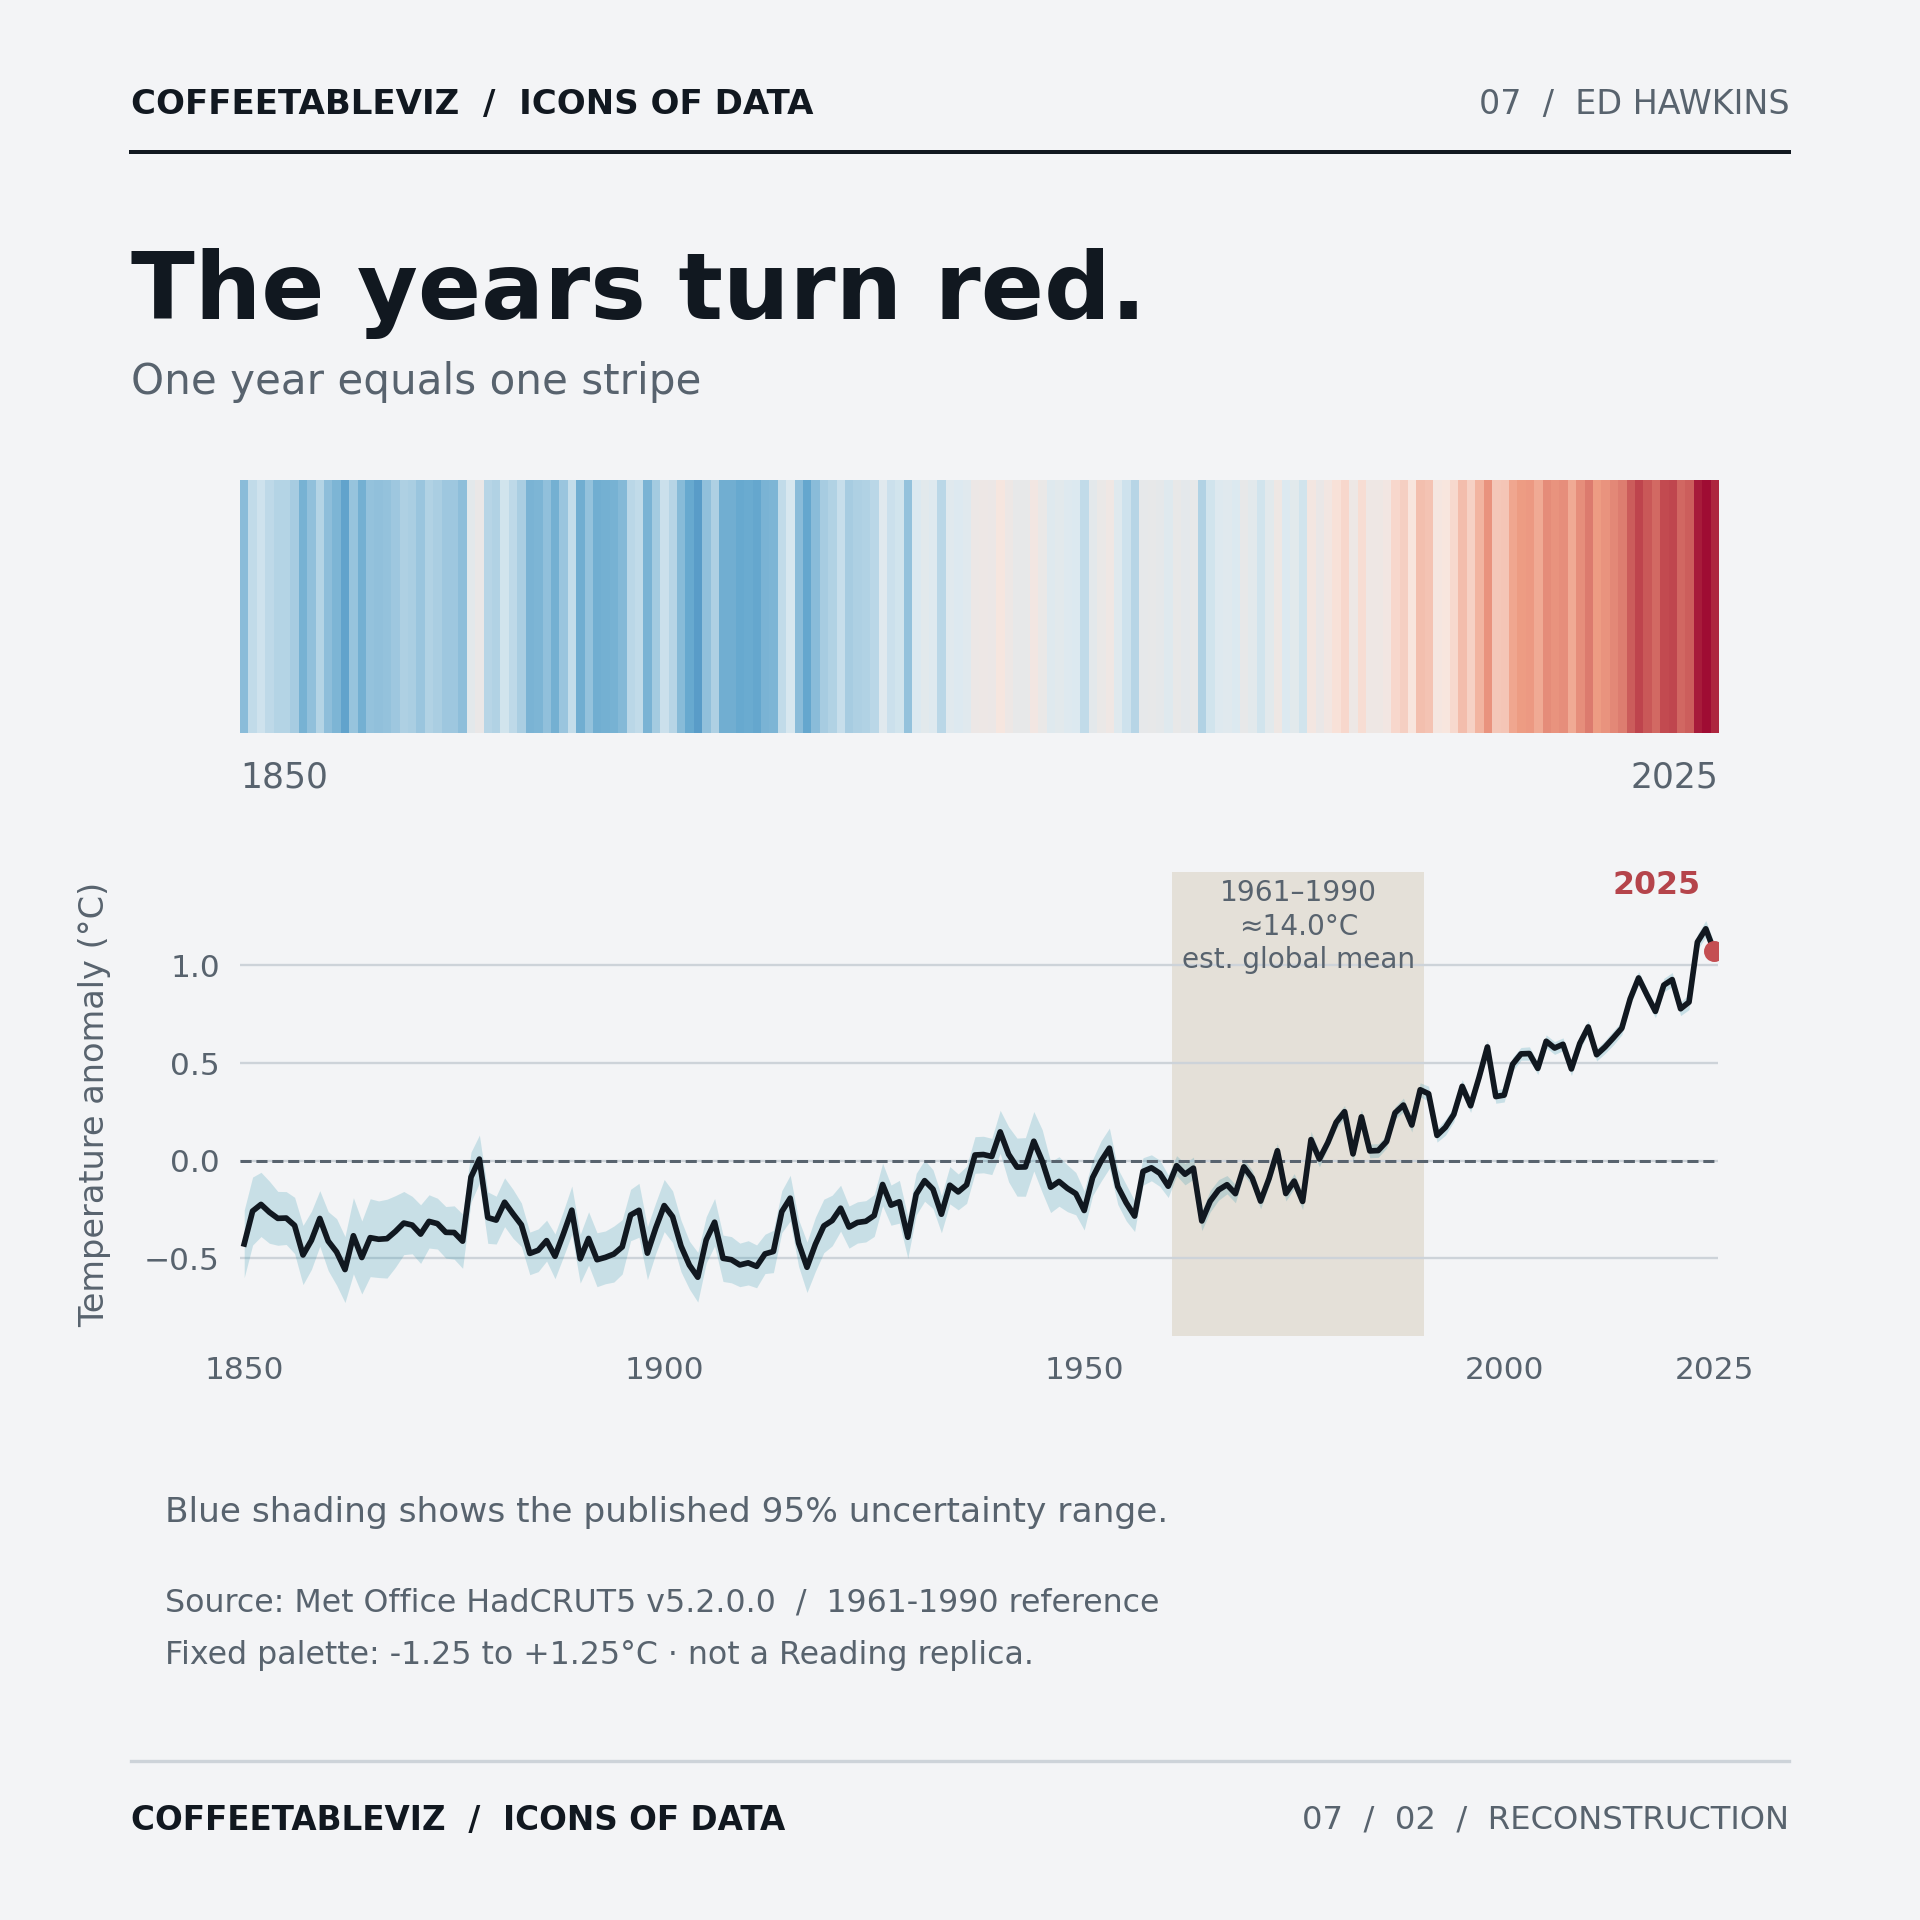
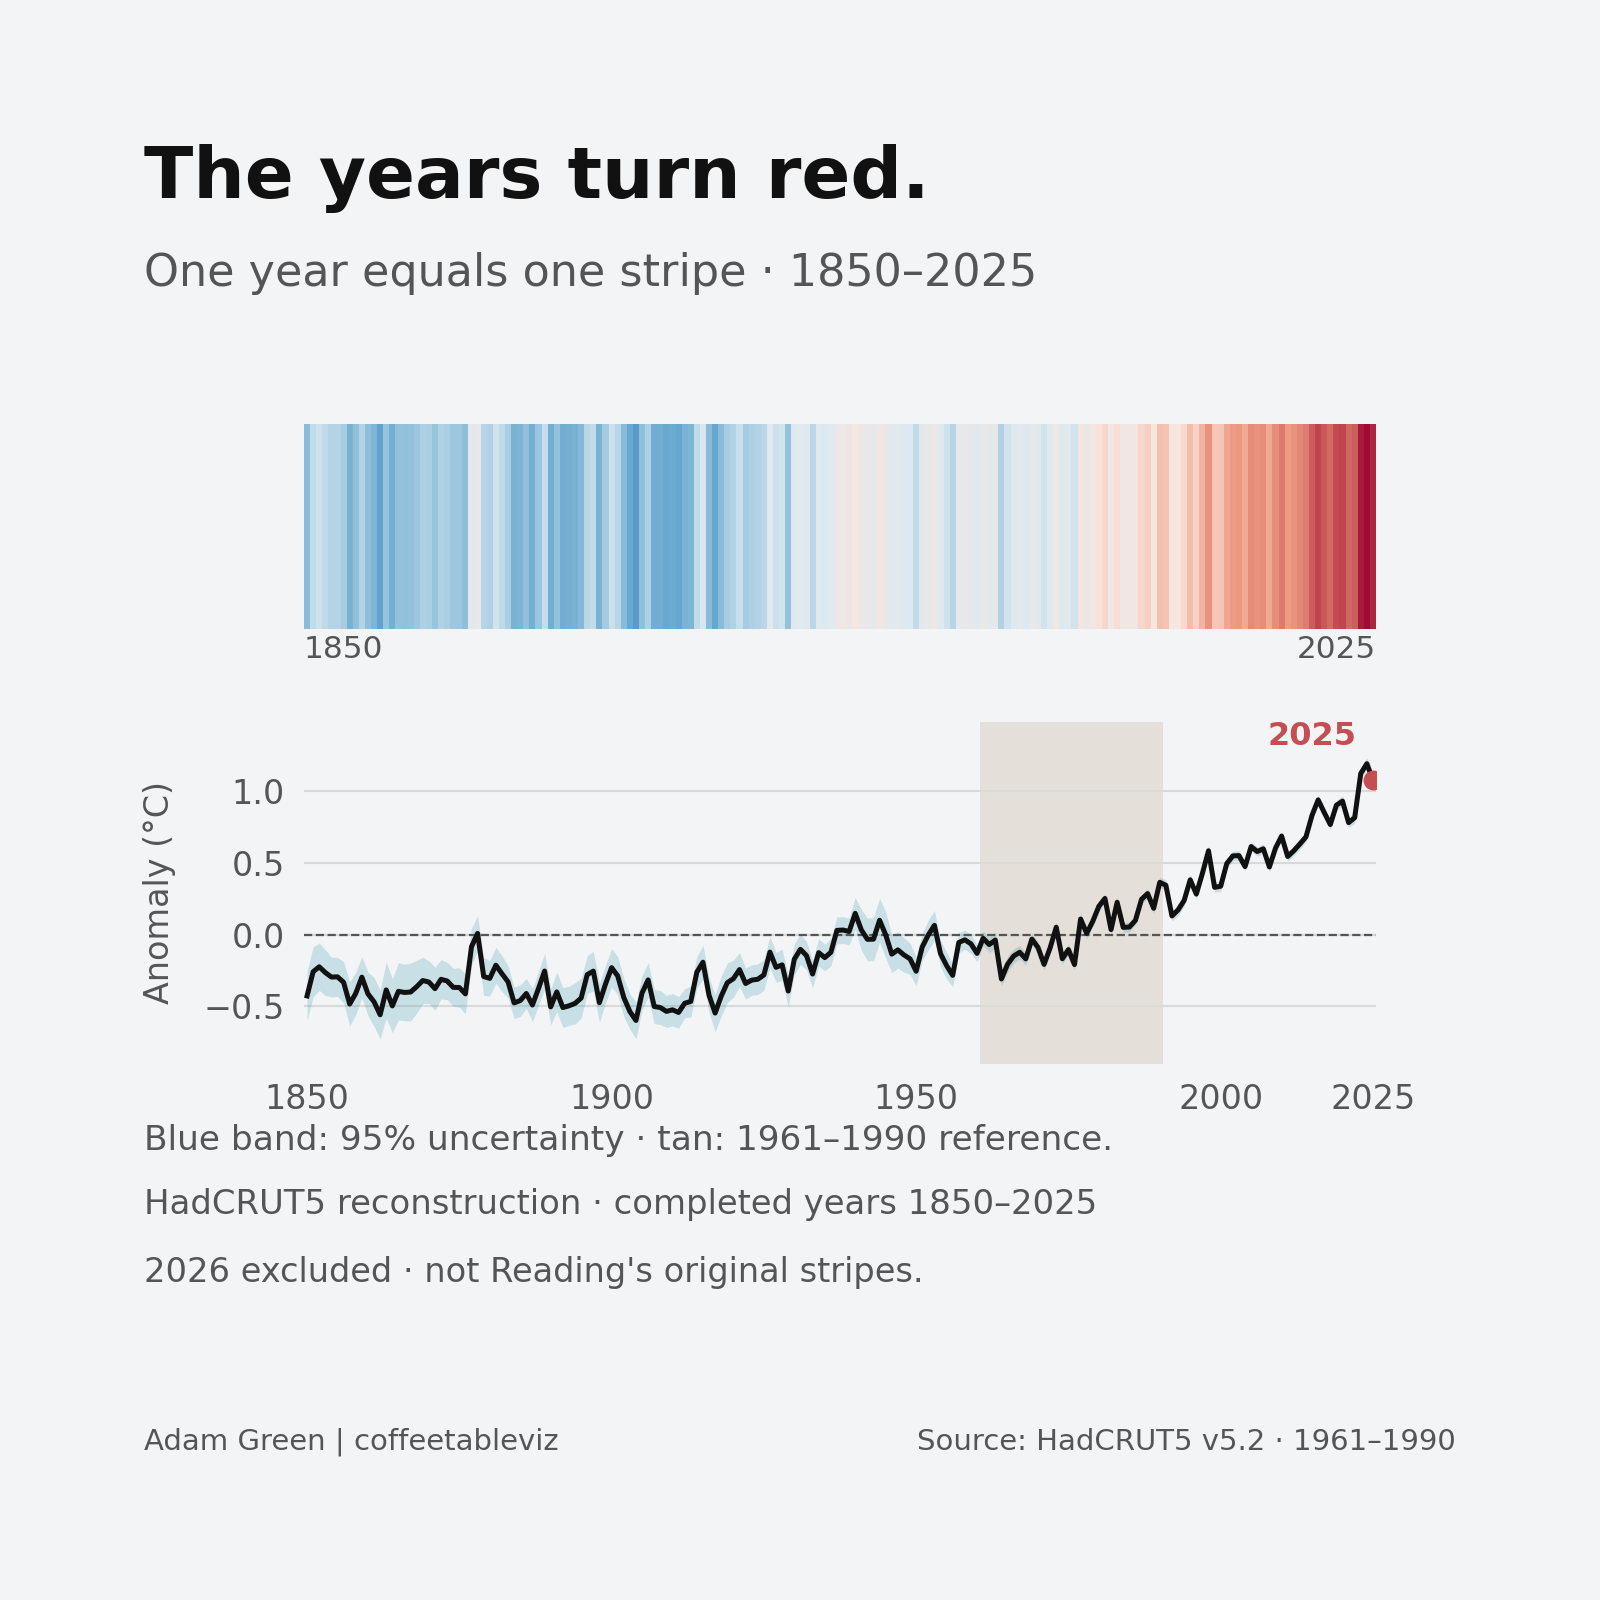
Publish approved Hawkins vNext image and preserve original
* Create data-validated Hawkins stripes plus uncertainty chart using approved house vNext

* Register centrally styled Hawkins stripes specialist chart

* Add Hawkins vNext review-only CHART_CONFIG with pinned HadCRUT5 series

* Add Hawkins source-integrity regression tests and GitHub phone QA previews

* Add Hawkins source-integrity regression tests and GitHub phone QA previews

* Document Hawkins stripe specialist type alongside shared charts

* Improve Hawkins source and uncertainty notes legibility at mobile widths

* Add one-shot checksum-gated staging of approved Hawkins PNG

* Record author approval for exact Hawkins vNext image and artifact checksum

* Stage exact approved Hawkins vNext image and preserve original

* Remove temporary Hawkins exact-artifact staging workflow after successful verification

* Document exact author-approved Hawkins PNG and preserved legacy image

---------

diff --git a/src/editorial_hawkins.py b/src/editorial_hawkins.py
@@ -1,0 +1,114 @@
+"""Approved-house presentation of Ed Hawkins' climate stripe idea.
+
+Uses pinned Met Office HadCRUT5 5.2.0.0 annual anomalies, 1850–2025.
+This modern reconstruction is not the University of Reading's original art.
+Preserve the scientific blue-red temperature scale and 95% confidence limits.
+"""
+from __future__ import annotations
+
+from hashlib import sha256
+from pathlib import Path
+import numpy as np
+import matplotlib.pyplot as plt
+from matplotlib.colors import LinearSegmentedColormap, TwoSlopeNorm
+
+from chart_style import BG, PRIMARY, ACCENT, TEXT, MUTED, resolve_style
+
[1 lines of base64/hex data omitted]
+STRIPE_COLORS=[
+    "#08306b", "#2166ac", "#67a9cf", "#DCEAF1",
+    "#F9E6DE", "#EF9E85", "#C44E52", "#98002E",
+]
+COLOR_MAP=LinearSegmentedColormap.from_list("warming", STRIPE_COLORS, N=256)
+COLOR_NORM=TwoSlopeNorm(vmin=-1.25, vcenter=0, vmax=1.25)
+SOURCE="HadCRUT5 v5.2 · 1961–1990 reference"
+
+
+def validate_hawkins_source(repo_root, config, rows):
+    """Fail when annual time series, anomaly values, confidence intervals, or pin drift."""
+    data=Path(repo_root)/config["data_file"]
+    if not data.is_file() or sha256(data.read_bytes()).hexdigest()!=DATA_SHA256:
+        raise ValueError("Pinned HadCRUT5 annual CSV changed")
+    years=[int(r["Time"]) for r in rows]
+    if years!=list(range(1850,2027)):
+        raise ValueError("Expected 177 annual rows, including incomplete 2026")
+    complete=rows[:-1]
+    a=np.array([float(r["Anomaly (deg C)"]) for r in complete])
+    lo=np.array([float(r["Lower confidence limit (2.5%)"]) for r in complete])
+    hi=np.array([float(r["Upper confidence limit (97.5%)"]) for r in complete])
+    if not (len(a)==176 and np.all(np.isfinite(a)) and np.all(np.isfinite(lo)) and np.all(np.isfinite(hi))):
+        raise ValueError("Missing or nonfinite HadCRUT5 annual values")
+    if not (np.all(lo<a) and np.all(a<hi)):
+        raise ValueError("Invalid 95% interval bounds")
+    offset=float(np.mean(a[np.logical_and(np.array(years[:-1])>=1961,
+                                           np.array(years[:-1])<=2010)]))
+    if abs(offset-0.18100777836)>1e-9 or abs(a[-1]-1.0732167)>1e-7:
+        raise ValueError("HadCRUT5 baseline/2025 expected values drifted")
+    native_period_mean=np.mean(a[111:141]) # 1961–1990 inclusive
+    if abs(native_period_mean)>0.03:
+        raise ValueError("Native 1961–1990 anomaly baseline validation failed")
+    return np.array(years[:-1]),a,lo,hi
+
+
+def render_hawkins_stripes(repo_root, config, rows):
+    from editorial_schematics import _add_header, _add_footer, _save
+
+    if config.get("render_profile")!="social_square":
+        raise ValueError("Hawkins vNext uses centrally approved social_square house style")
+    years, anomalies, lower, upper=validate_hawkins_source(repo_root,config,rows)
+    st=resolve_style(config)
+    fig=plt.figure(figsize=(8,8),facecolor=BG)
+    _add_header(fig,config["title"],config["subtitle"],config=config)
+
+    shared_left=.19
+    shared_width=.67
+    shared_bounds=(1849.5,2025.5)
+    stripe_ax=fig.add_axes([shared_left,.607,shared_width,.128],facecolor=BG)
+    stripe_ax.imshow(anomalies[np.newaxis,:],cmap=COLOR_MAP,norm=COLOR_NORM,
+             interpolation="nearest",aspect="auto",
+             extent=[shared_bounds[0],shared_bounds[1],0,1])
+    stripe_ax.set_xlim(*shared_bounds)
+    stripe_ax.set_axis_off()
+
+    fig.text(shared_left,.589,"1850",fontsize=11.2,color=MUTED,ha="left")
+    fig.text(shared_left+shared_width,.589,"2025",fontsize=11.2,color=MUTED,ha="right")
+
+    plot=fig.add_axes([shared_left,.335,shared_width,.214],facecolor=BG)
+    plot.axvspan(1960.5,1990.5,color="#DDD6C9",alpha=.64,zorder=0,lw=0)
+    plot.fill_between(years,lower,upper,color=PRIMARY,alpha=.20,lw=0,zorder=2)
+    plot.plot(years,anomalies,color=TEXT,lw=1.8,zorder=4)
+    plot.axhline(0,color=MUTED,lw=.8,ls="--",zorder=3)
+    plot.scatter([2025],[float(anomalies[-1])],s=38,color=ACCENT,zorder=6)
+    plot.set_xlim(*shared_bounds)
+    plot.set_ylim(-.90,1.48)
+    plot.set_xticks([1850,1900,1950,2000,2025])
+    plot.set_yticks([-.5,0,.5,1.0])
+    plot.set_ylabel("Anomaly (°C)",fontsize=st["axis_label_fontsize"],labelpad=10,color=MUTED)
+    plot.tick_params(axis="both",which="both",length=0,labelsize=st["tick_label_fontsize"],colors=MUTED,pad=7)
+    for sp in plot.spines.values():sp.set_visible(False)
+    plot.grid(axis="y",color="#D9D9D9",lw=.75,zorder=0)
+    plot.set_axisbelow(True)
+    plot.annotate("2025",xy=(2025,anomalies[-1]),xytext=(-6,10),
+        textcoords="offset points",ha="right",va="bottom",
+        fontsize=11.5,fontweight="bold",color=ACCENT)
+
+    # Both panels must place every annual centre at the same x-coordinate.
+    a=stripe_ax.get_position().bounds
+    b=plot.get_position().bounds
+    if not (abs(a[0]-b[0])<1e-12 and abs(a[2]-b[2])<1e-12 and
+            np.allclose(stripe_ax.get_xlim(),plot.get_xlim())):
+        raise ValueError("Stripe/temperature horizontal alignment drift")
+    if len(anomalies)!=int(shared_bounds[1]-shared_bounds[0]):
+        raise ValueError("One annual stripe per completed year required")
+    for year in (1850,1900,1961,1975,1990,2025):
+        x1=a[0]+a[2]*(year-shared_bounds[0])/(shared_bounds[1]-shared_bounds[0])
+        x2=b[0]+b[2]*(year-shared_bounds[0])/(shared_bounds[1]-shared_bounds[0])
+        if abs(x1-x2)>1e-12:
+            raise ValueError(f"Stripe alignment failed in {year}")
+
+    fig.text(.09,.281,"Blue band: 95% uncertainty · tan: 1961–1990 reference.",fontsize=12.4,color=MUTED)
+    fig.text(.09,.241,"HadCRUT5 reconstruction · completed years 1850–2025",fontsize=12.2,color=MUTED)
+    fig.text(.09,.199,"2026 excluded · not Reading's original stripes.",fontsize=12.1,color=MUTED)
+
+    _add_footer(fig,"Adam Green | coffeetableviz",config["source_text"],config=config)
+    return _save(fig,repo_root,config)

diff --git a/tests/test_hawkins_vnext.py b/tests/test_hawkins_vnext.py
@@ -1,0 +1,40 @@
+"""Pinned HadCRUT5 data and Hawkins chart-house migration checks."""
+import csv,sys
+from pathlib import Path
+import importlib.util
+import pytest
+
+ROOT=Path(__file__).resolve().parents[1]
+sys.path.insert(0,str(ROOT/"src"))
+from editorial_hawkins import validate_hawkins_source
+
+DATA=ROOT/"archive/projects/2026-10-icons-of-data/editions/07-hawkins/data/HadCRUT.5.2.0.0.analysis.summary_series.global.annual.snapshot_2026-10-19.csv"
+CONFIG=ROOT/"archive/projects/2026-10-icons-of-data/editions/07-hawkins/config/review_02_hawkins_vnext.py"
+
+def rows():
+    with DATA.open(encoding="utf-8",newline="") as f:
+        return list(csv.DictReader(f))
+
+def test_pinned_complete_annual_data_and_confidence_intervals():
+    spec=importlib.util.spec_from_file_location("hawkins_config",CONFIG)
+    module=importlib.util.module_from_spec(spec)
+    spec.loader.exec_module(module)
+    cfg=module.CHART_CONFIG
+    years,anomaly,lo,hi=validate_hawkins_source(ROOT,cfg,rows())
+    assert (len(years),years[0],years[-1]) == (176,1850,2025)
+    assert abs(anomaly[-1]-1.0732167)<1e-7
+    assert all(lo<anomaly) and all(anomaly<hi)
+    assert cfg["render_profile"]=="social_square"
+    assert cfg["chart_type"]=="hawkins_stripes"
+    assert cfg["output_file"].startswith("output/")
+
+def test_missing_or_changed_data_fails():
+    spec=importlib.util.spec_from_file_location("hawkins_config",CONFIG)
+    module=importlib.util.module_from_spec(spec)
+    spec.loader.exec_module(module)
+    with pytest.raises(ValueError):
+        validate_hawkins_source(ROOT,module.CHART_CONFIG,rows()[:-1])
+    bad=rows()
+    bad[0]["Anomaly (deg C)"]="NaN"
+    with pytest.raises(ValueError):
+        validate_hawkins_source(ROOT,module.CHART_CONFIG,bad)

diff --git a/src/editorial_schematics.py b/src/editorial_schematics.py
@@ -17,7 +17,7 @@ SUBTEXT = "#555555"
 WHITE = "#FFFFFF"
 
 
-EDITORIAL_TYPES = {"route_zigzag", "route_longitude", "mode_clusters", "position_shift", "nightingale_rates"}
+EDITORIAL_TYPES = {"route_zigzag", "route_longitude", "mode_clusters", "position_shift", "nightingale_rates", "hawkins_stripes"}
 
 
 def _wrap(text, width, max_lines=2):
@@ -555,4 +555,7 @@ def render_editorial_schematic(repo_root, config, rows, columns=None):
     if chart_type == "nightingale_rates":
         from editorial_nightingale import render_nightingale_rates
         return render_nightingale_rates(repo_root, config, rows)
+    if chart_type == "hawkins_stripes":
+        from editorial_hawkins import render_hawkins_stripes
+        return render_hawkins_stripes(repo_root, config, rows)
     raise ValueError(f"Unsupported editorial schematic chart_type: {chart_type}")

diff --git a/archive/projects/2026-10-icons-of-data/editions/07-hawkins/config/review_02_hawkins_vnext.py b/archive/projects/2026-10-icons-of-data/editions/07-hawkins/config/review_02_hawkins_vnext.py
@@ -1,0 +1,21 @@
+"""Review-only chart 02; no original or site asset is changed."""
+CHART_CONFIG={
+    "data_file": "archive/projects/2026-10-icons-of-data/editions/07-hawkins/data/HadCRUT.5.2.0.0.analysis.summary_series.global.annual.snapshot_2026-10-19.csv",
+    "data_format": "wide",
+    "chart_type": "hawkins_stripes",
+    "x_col": "Time",
+    "y_col": "Anomaly (deg C)",
+    "series_col": None,
+    "value_col": None,
+    "filters": [],
+    "render_profile": "social_square",
+    "profile_overrides": {},
+    "title": "The years turn red.",
+    "subtitle": "One year equals one stripe · 1850–2025",
+    "source_text": "Source: HadCRUT5 v5.2 · 1961–1990",
+    "footer_left": "Adam Green | coffeetableviz",
+    "fig_width": 8.0,
+    "fig_height": 8.0,
+    "dpi": 200,
+    "output_file": "output/hawkins_vnext_preview.png",
+}

diff --git a/src/chart_config_template.py b/src/chart_config_template.py
@@ -4,7 +4,7 @@ CHART_CONFIG = {
     # ---------------------------
     "data_file": "data/your_file.csv",
     "data_format": "wide",
-    "chart_type": "dot",  # line | bar | dot | scatter | route_zigzag | route_longitude | mode_clusters | position_shift | nightingale_rates
+    "chart_type": "dot",  # line | bar | dot | scatter | route_zigzag | route_longitude | mode_clusters | position_shift | nightingale_rates | hawkins_stripes
     "orientation": None,  # None | horizontal for bar charts
 
     "x_col": "x_column",

diff --git a/archive/projects/2026-10-icons-of-data/editions/07-hawkins/project_manifest.md b/archive/projects/2026-10-icons-of-data/editions/07-hawkins/project_manifest.md
@@ -47,3 +47,12 @@ Authoritative Hawkins first-person 2024 source confirms the **2023** baseline ch
 - Stage: `site/_posts/2026-10-20-how-the-world-changed-colour.md`, `site/resources/icons-of-data/index.html` and 3 immutable image assets in `site/assets/icons-of-data/ed-hawkins/`.
 - Jekyll build, real Chrome screenshots and layout/link/image QA at 1365, 390, 320px passed: https://github.com/adamgreen1708/chart-templates/actions/runs/39508118680 . `qa/site/browser_qa.json` and screenshots stored in this edition archive.
 - **Final approval needed:** Review the page screenshots and linked draft PR #138, then obtain a separate explicit author decision before merging to main and activating GitHub Pages. Original stays original; no fake historic frame.
+
+
+## Chart #02 vNext author approval and exact-image staging — 30 October 2026
+
+Adam approved the new `02_the_century_shifts_colour.png` in ChatGPT after seeing the full-size 1600×1600 rendering and 390px/320px phone previews. The replacement was copied from the already-reviewed [successful GitHub QA run 41139172256](https://github.com/adamgreen1708/chart-templates/actions/runs/41139172256), with **no regeneration during staging**.
+
[1 lines of base64/hex data omitted]
+
+The original University of Reading artwork (#01), decoder chart (#03), pinned HadCRUT5 snapshot, original standalone renderer and website article remain unmodified. The new shared renderer `src/editorial_hawkins.py` validates 1850–2025 complete years, 176 stripe/line alignment, native 1961–1990 anomaly reference, 95% uncertainty bounds and source checksum. The temporary one-shot image-staging workflow was removed once it had staged the exact approved bytes. Publication is controlled through PR #165.
